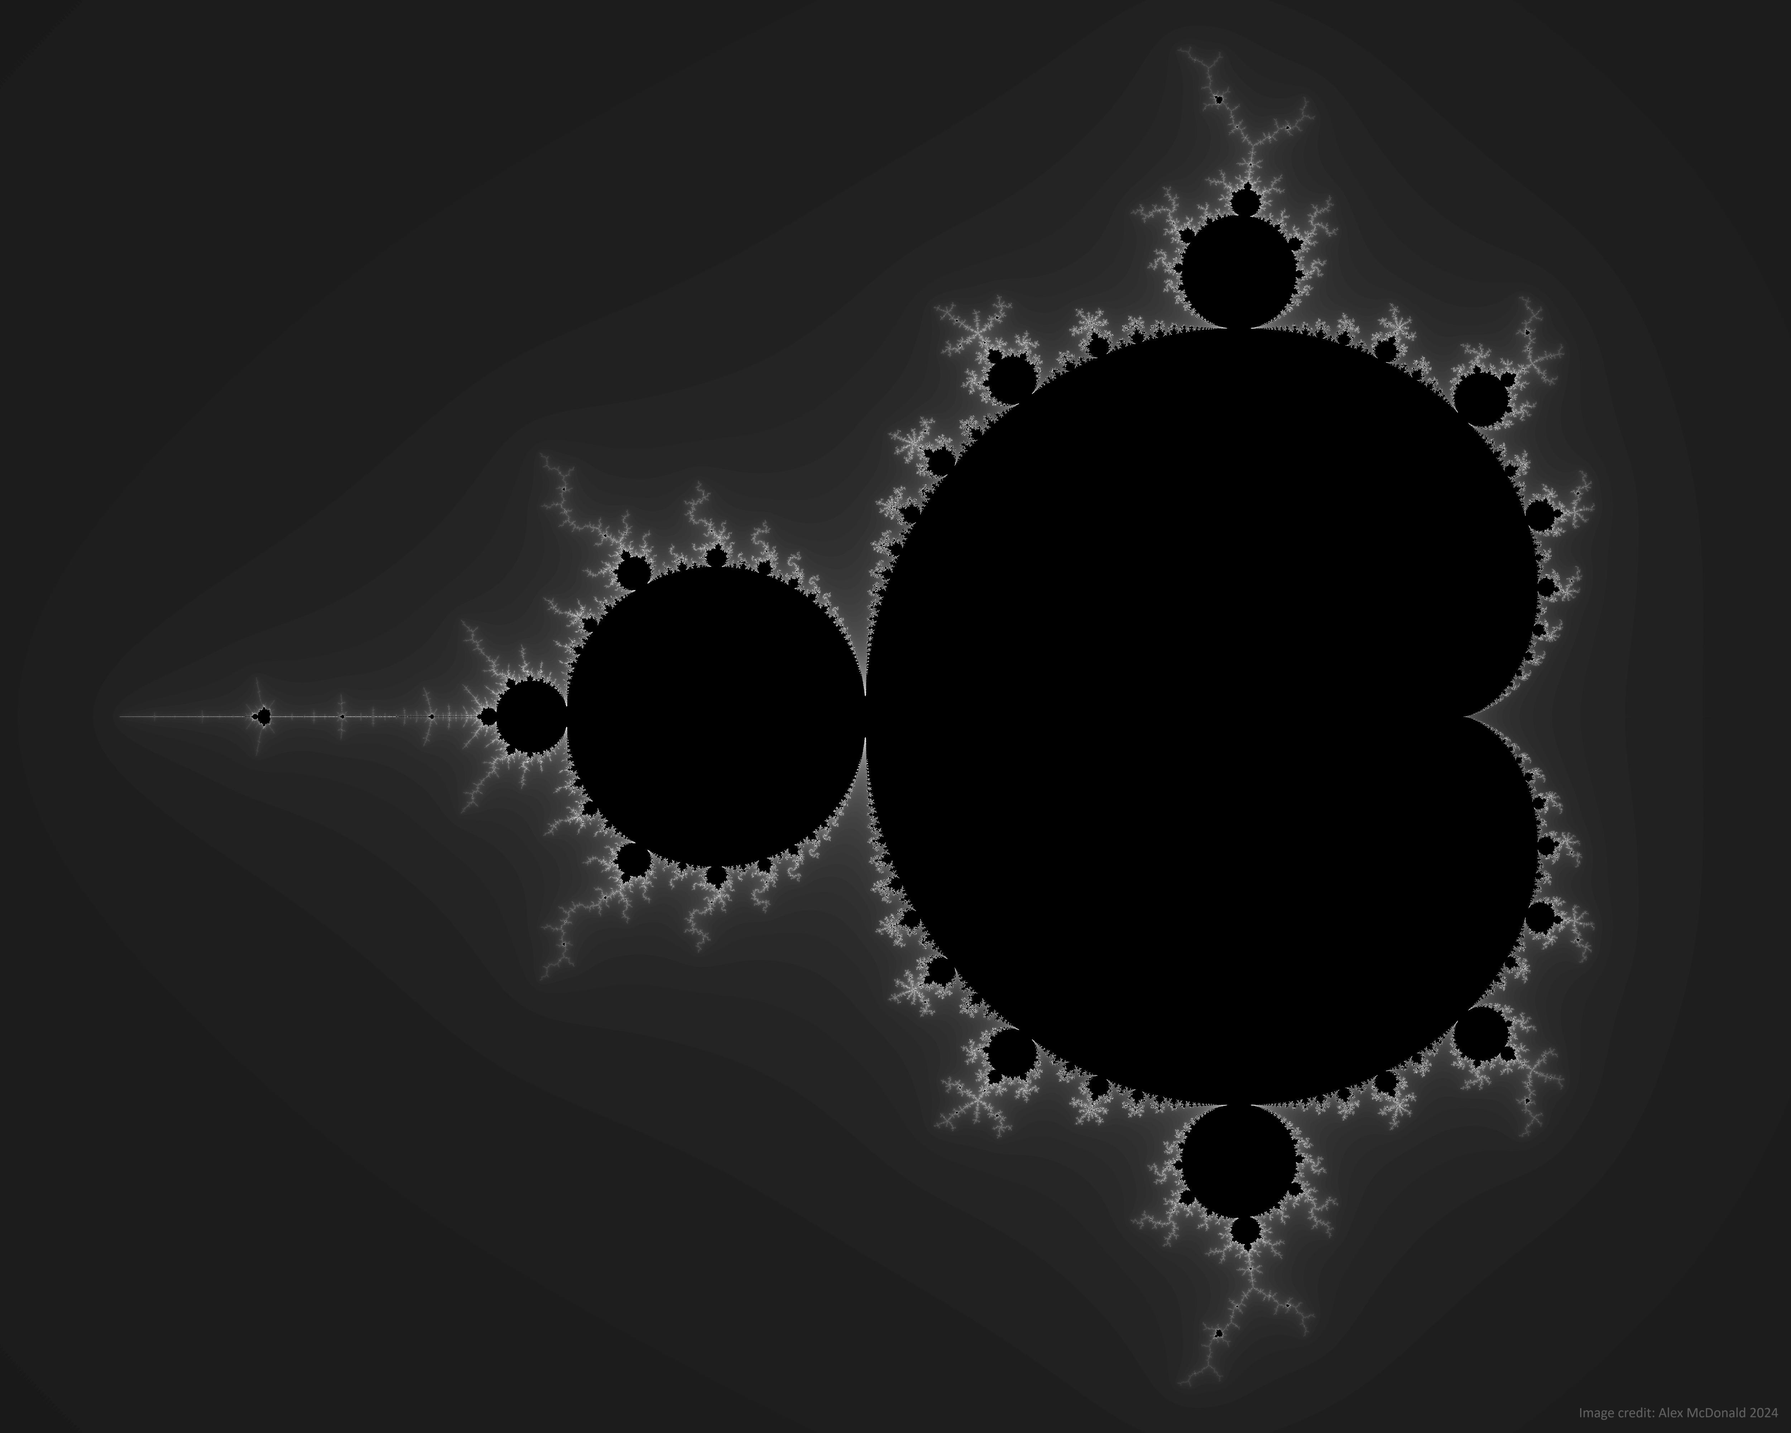
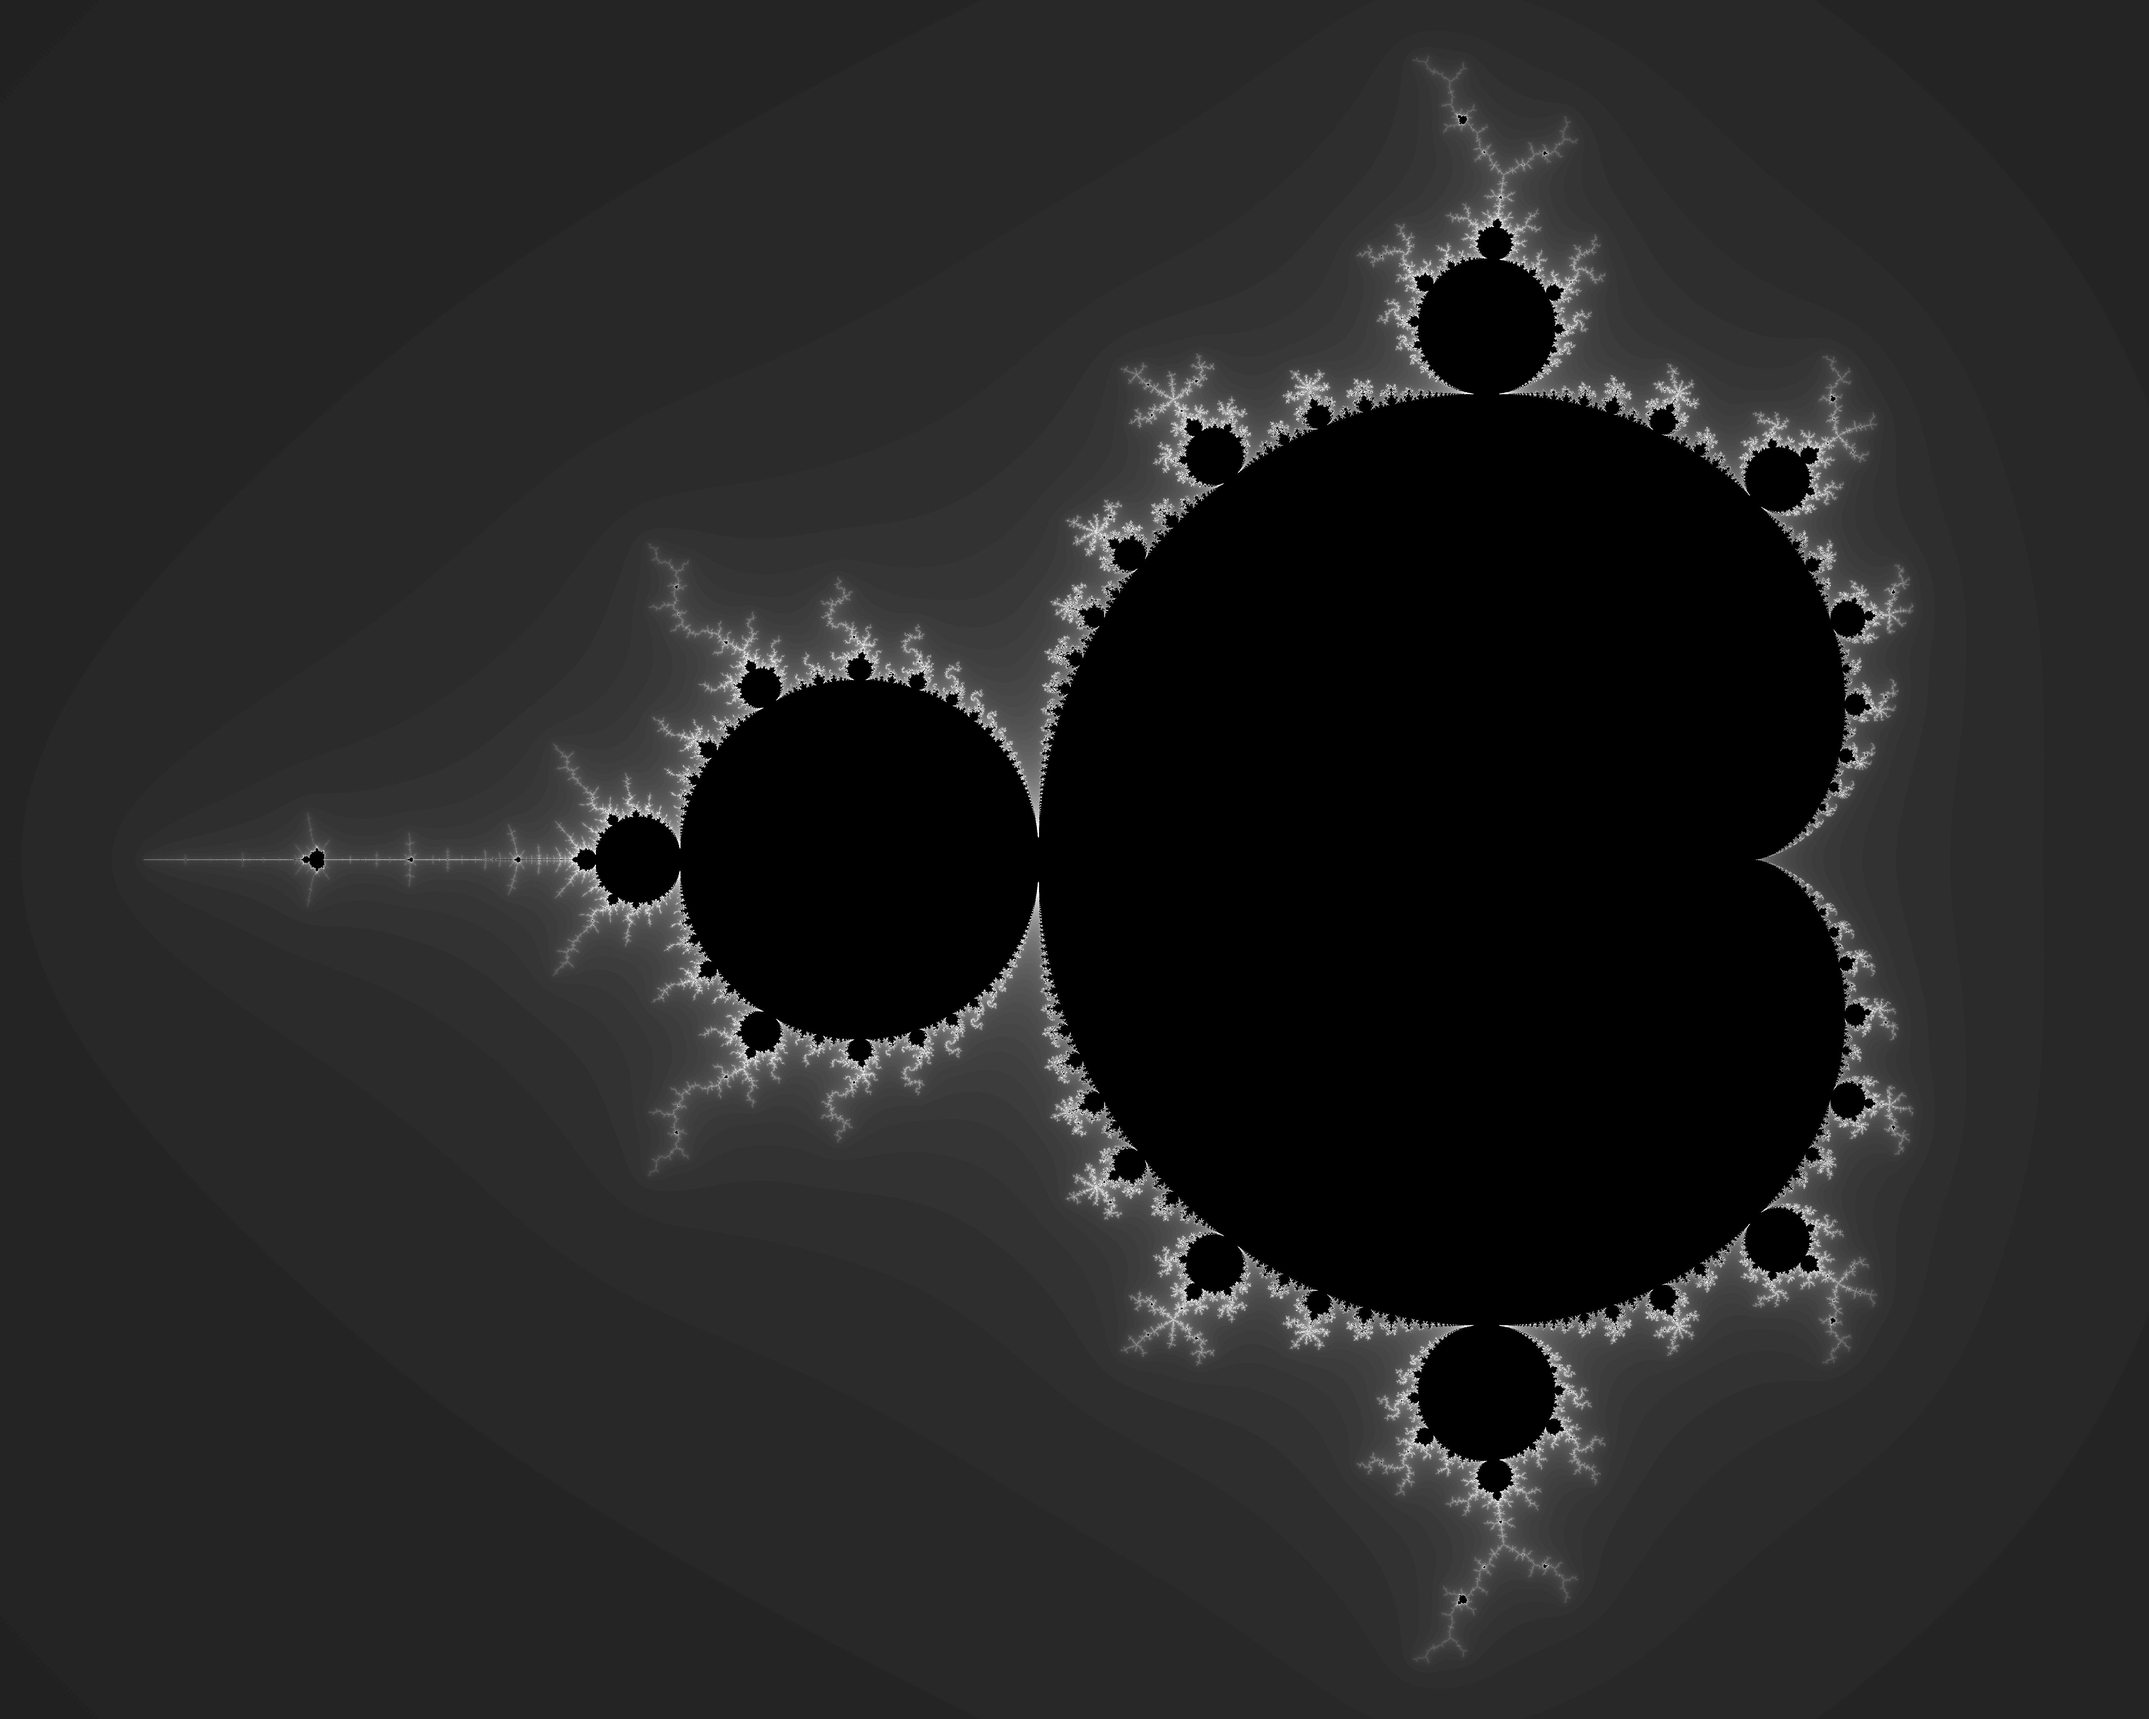
Larger render

diff --git a/image_generator.py b/image_generator.py
@@ -2,6 +2,11 @@ from main import *
 from PIL import Image, ImageDraw
 import warnings
 
+w=5000
+h=4000
+n_points=100
+brightness_percent = 0.7
+
 def from_rgb(rgb):
     return "#%02x%02x%02x" % rgb
 def gray_rgb(val):
@@ -23,11 +28,14 @@ def calc_pixels(A=None):
     warnings.filterwarnings('ignore') #expected overflow warnings, if point diverges in sequence
     X, Y = np.meshgrid(x_vals, y_vals)
     grid = np.array([X.flatten(), Y.flatten()]).transpose()
-    calcs = calculate_coord_vec(grid) if A is None else calculate_coord_vec_A(A, grid)
+    calcs = calculate_coord_vec(grid, n_points) if A is None else calculate_coord_vec_A(A, grid, n_points)
     warnings.filterwarnings('default')
 
     calcs[calcs >= n_points] = 0 #black pixel for converge
-    calcs = np.uint8(255*calcs/np.max(calcs)).reshape(len(y_vals), len(x_vals))
+    m = 255/(np.max(calcs)*brightness_percent) #brightness
+    calcs *= m
+    calcs[calcs > 255] = 255
+    calcs = np.uint8(calcs).reshape(len(y_vals), len(x_vals))
     return calcs
 
 

diff --git a/main.py b/main.py
@@ -32,7 +32,7 @@ def multiply_vec(ex0, ex1): #shape = [N,2]
     r[:,1] = (ex0[:,0]*ex1[:,1]) + (ex0[:,1]*ex1[:,0])
     return r
 
-def calculate_coord_vec(C): #returns vec of n before reached inf or nan
+def calculate_coord_vec(C, n_points): #returns vec of n before reached inf or nan
     curr = C
     r = np.zeros(len(C))
     for i in range(n_points):
@@ -40,7 +40,7 @@ def calculate_coord_vec(C): #returns vec of n before reached inf or nan
         curr = multiply_vec(curr, curr) + C
     return (n_points*np.ones(len(C))) - r
 
-def calculate_coord_vec_A(a, C): #variant with non-zero starting point
+def calculate_coord_vec_A(a, C, n_points): #variant with non-zero starting point
     curr = np.tile(a, len(C)).reshape(len(C), 2)
     r = np.zeros(len(C))
     for i in range(n_points):
